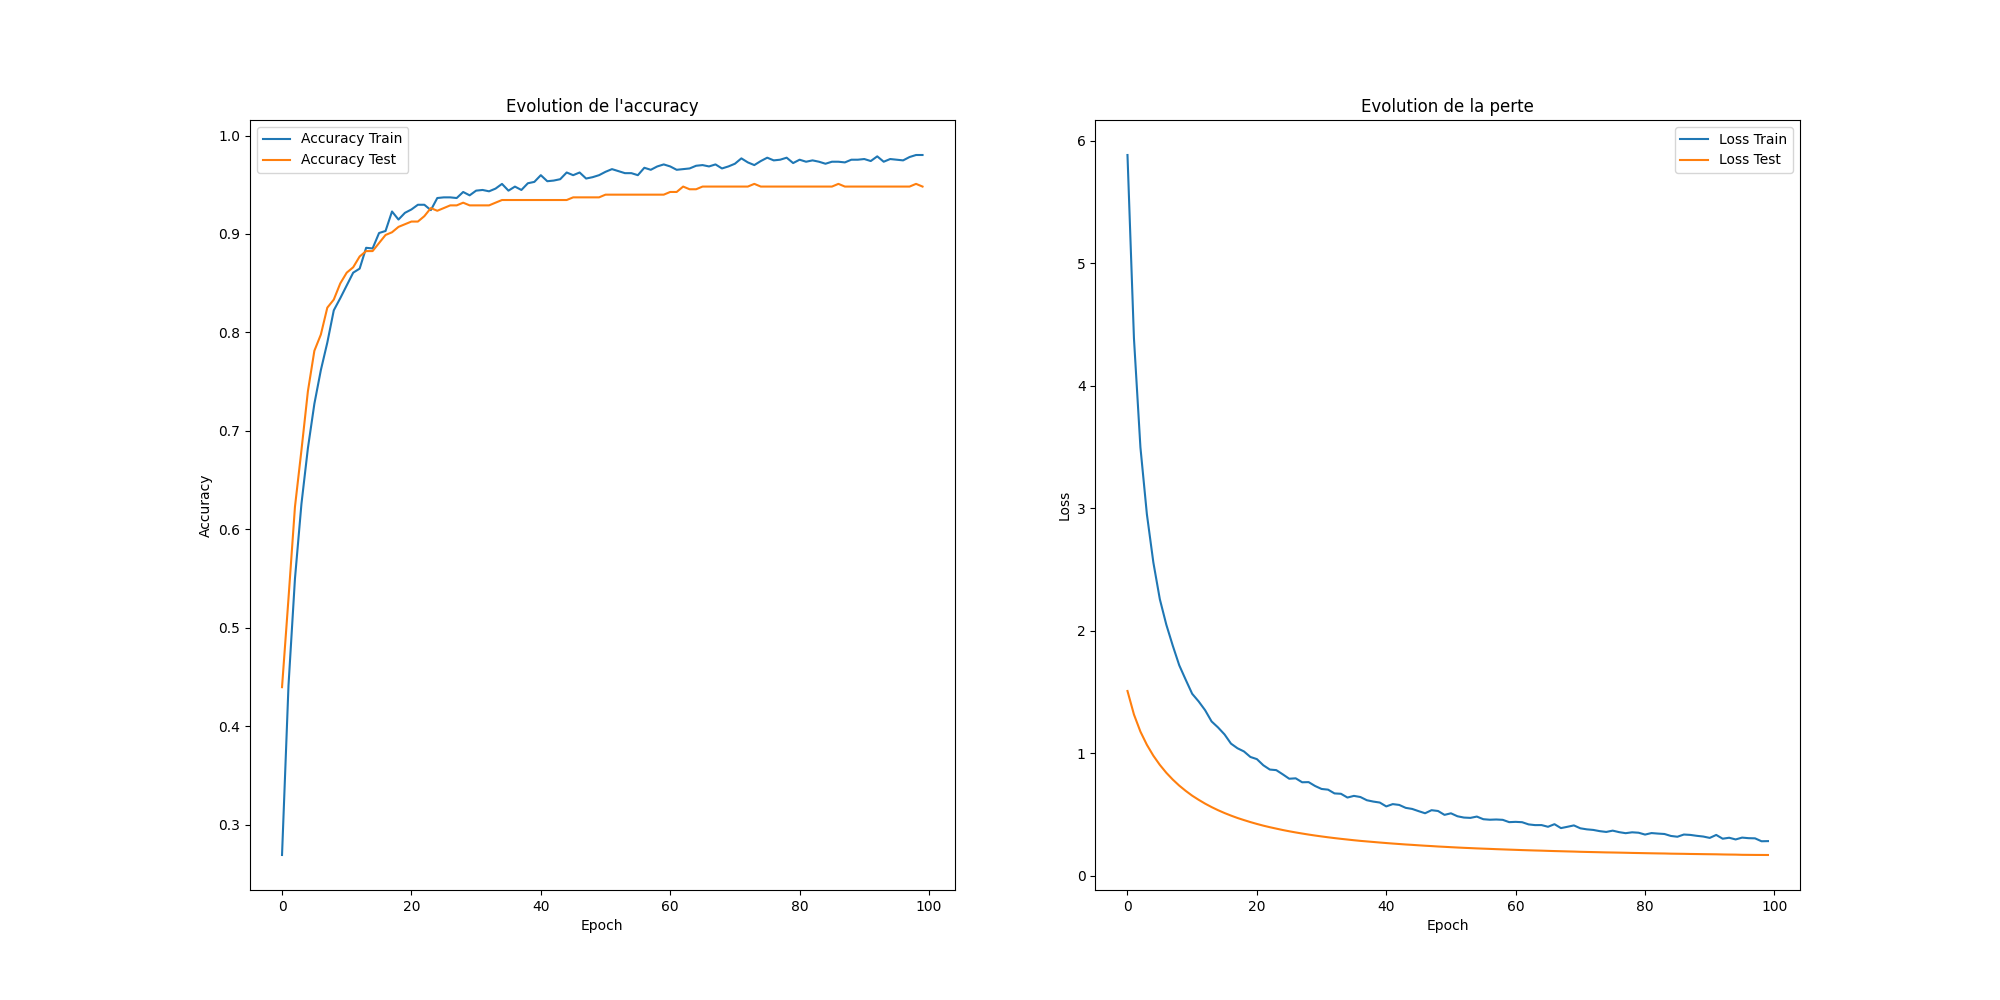
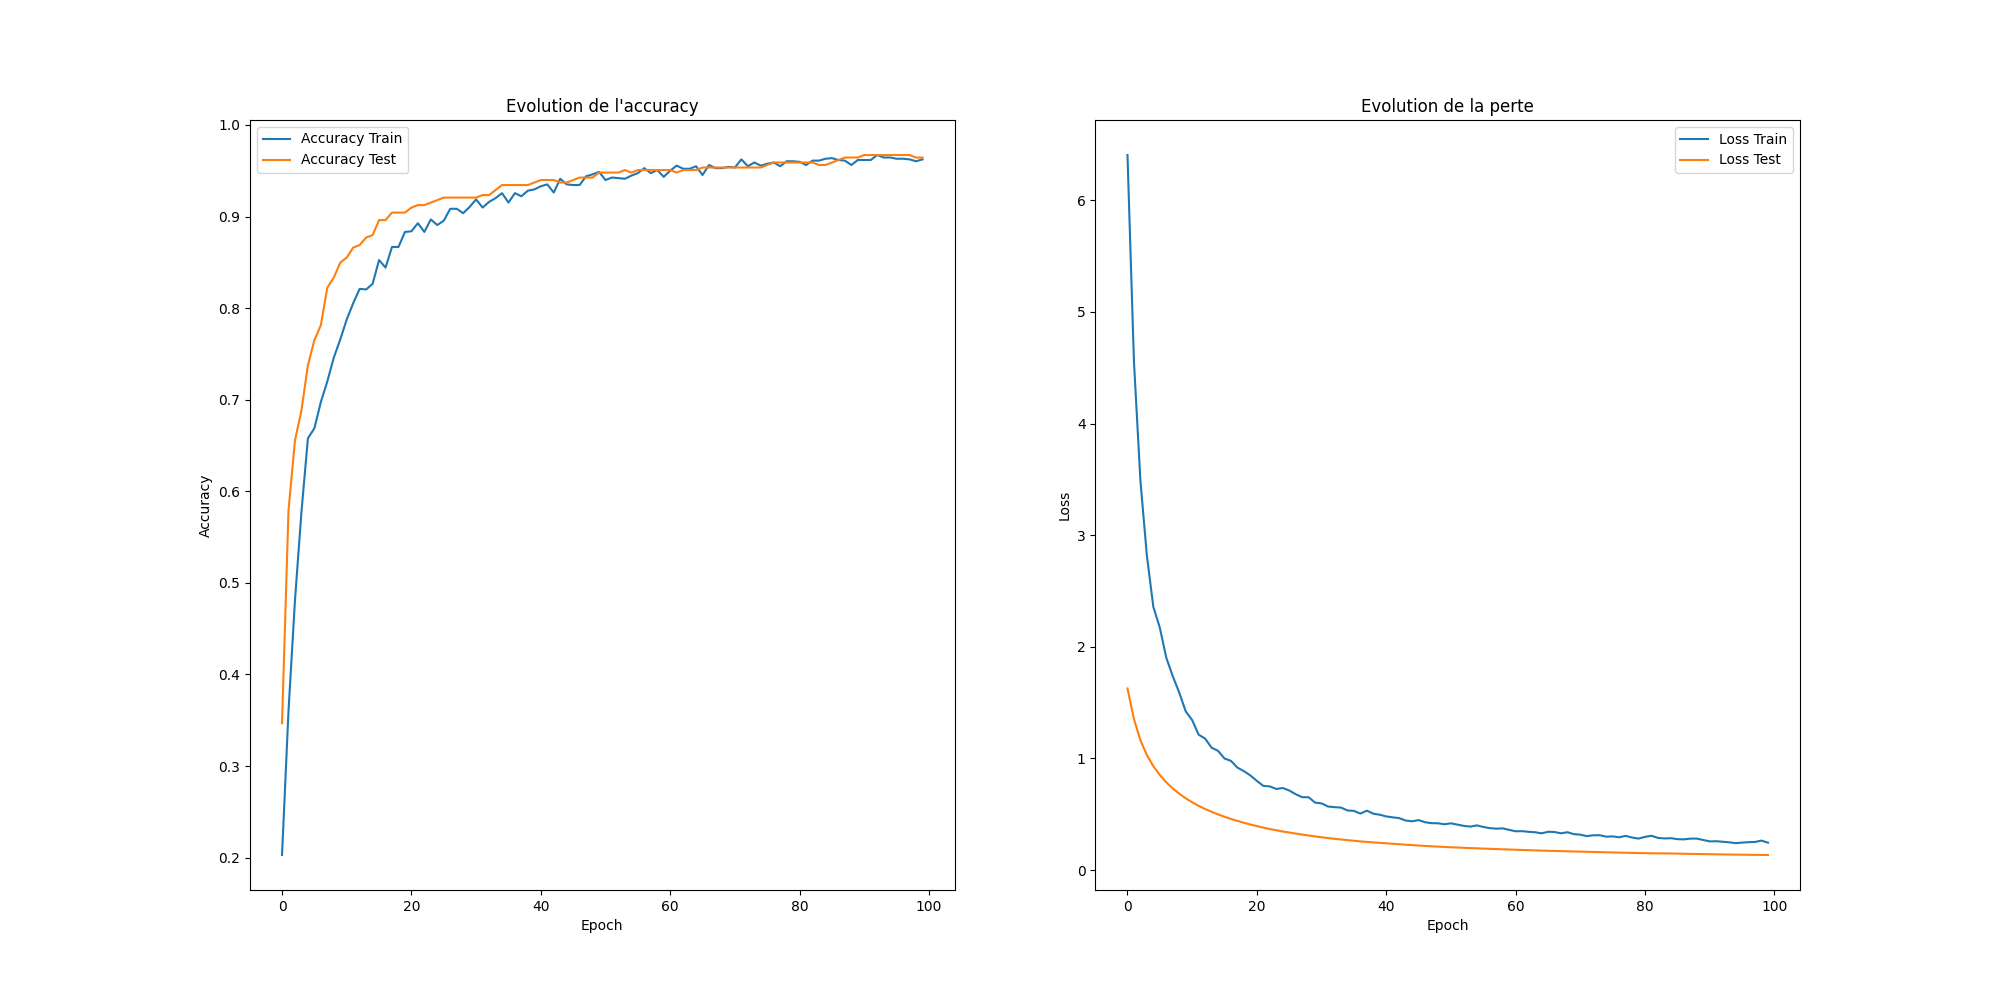
amelioration 2 ponderation

diff --git a/rendu_7/app.py b/rendu_7/app.py
@@ -20,9 +20,9 @@ class_counts = Counter(data["classe"])
 nb_individus = data.shape[0]
 nb_classes = len(class_counts)
 
-class_weights = {classe: nb_individus / (nb_classes * count) for classe, count in class_counts.items()}
-class_weights[1] = 10
-class_weights[3] = 10
+class_weights = {classe: (nb_individus / (nb_classes * count)) for classe, count in class_counts.items()}
+for i in range(len(class_weights)):
+    class_weights[i] = class_weights[i] * (i+1)
 
 X = data.iloc[:, :-1].to_numpy()
 y_true = data.iloc[:, -1].to_numpy()
@@ -44,7 +44,7 @@ for train_index, test_index in kf.split(X, y):
     model = tf.keras.models.Sequential([
             Dense(128, activation="tanh", input_shape=(X.shape[1],)),
             Dense(128, activation="tanh"),
-            Dropout(0.2),
+            Dropout(0.5),
             Dense(6, activation="softmax")
     ])
 
@@ -103,7 +103,7 @@ plt.show()
 model = tf.keras.models.Sequential([
         Dense(128, activation="tanh", input_shape=(X.shape[1],)),
         Dense(128, activation="tanh"),
-        Dropout(0.2),
+        Dropout(0.5),
         Dense(6, activation="softmax")
 ])
 

diff --git a/rendu_7/README.md b/rendu_7/README.md
@@ -6,7 +6,7 @@ Ce projet met en place un modèle de réseau de neurones en utilisant TensorFlow
 
 ## 🏆 Objectifs du projet
 
-- Prétraiter les données dermatologiques et entraîner un modèle de classification.
+- Prétraiter les données dermatologiques, pondérer les classes et entraîner un modèle de classification.
 - Atteindre une précision globale > 90%.
 - Afficher et sauvegarder les performances via une matrice de confusion.
 
@@ -20,6 +20,7 @@ Ce projet met en place un modèle de réseau de neurones en utilisant TensorFlow
 
 * Graphique Accuracy vs Loss : Permet d’évaluer la convergence du modèle.
 * Matrice de confusion : Analyse des erreurs de classification.
+* Courbes ROC : Compare le taux de vrais positifs au taux de faux positifs.
 
 ## 📂 Structure du Rendu
 
